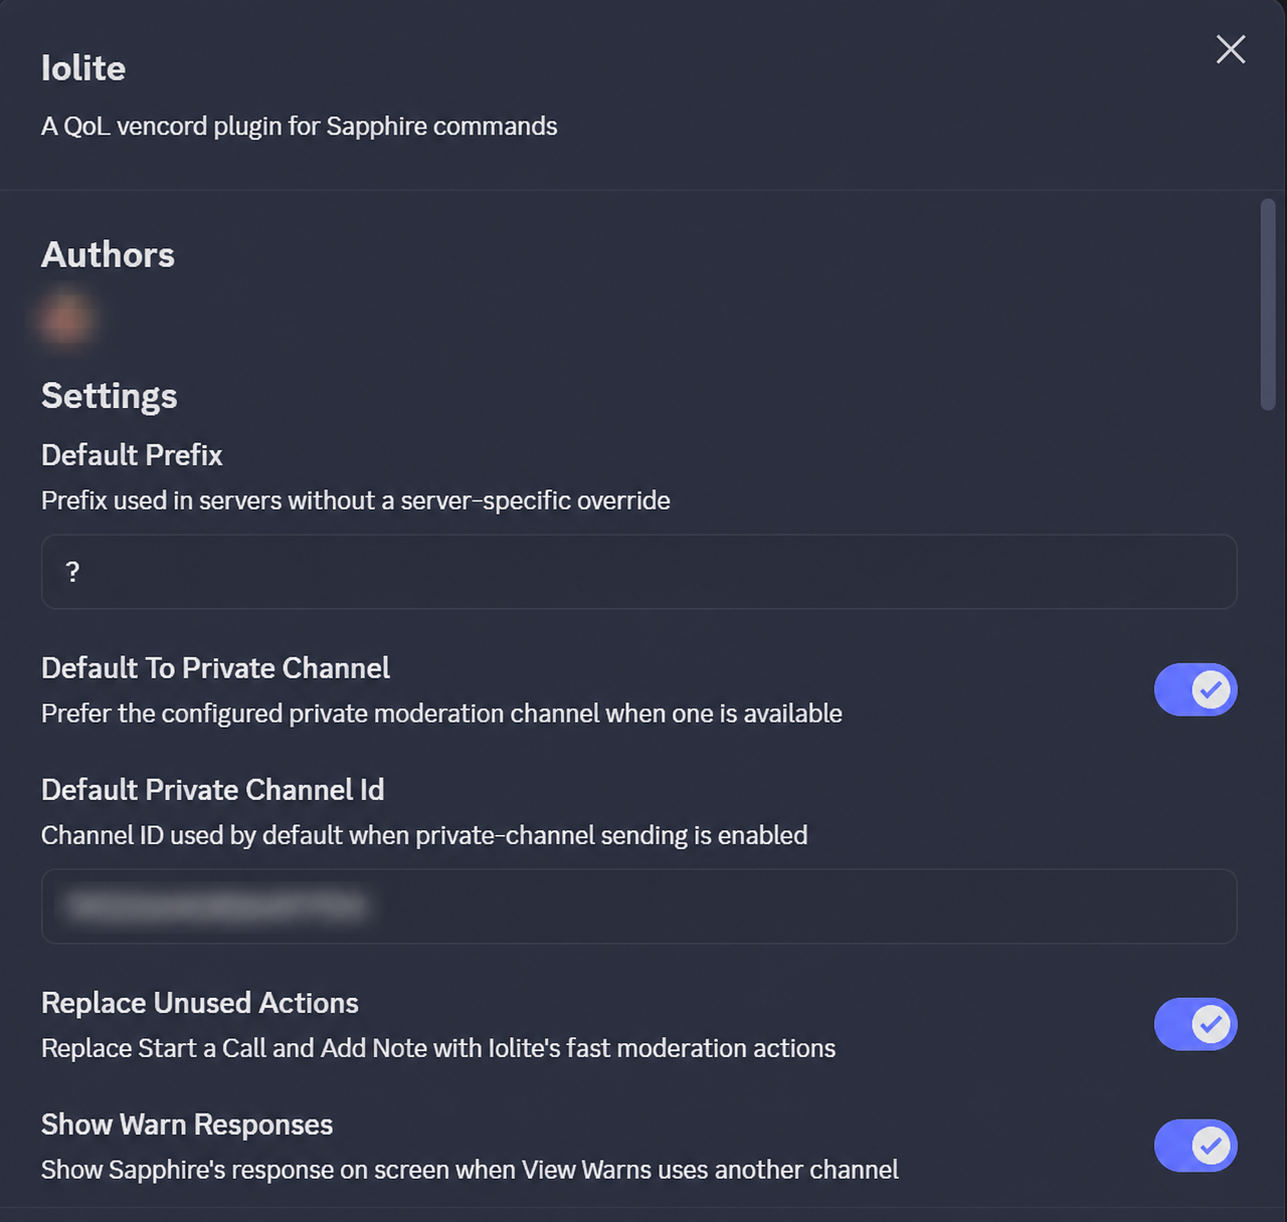
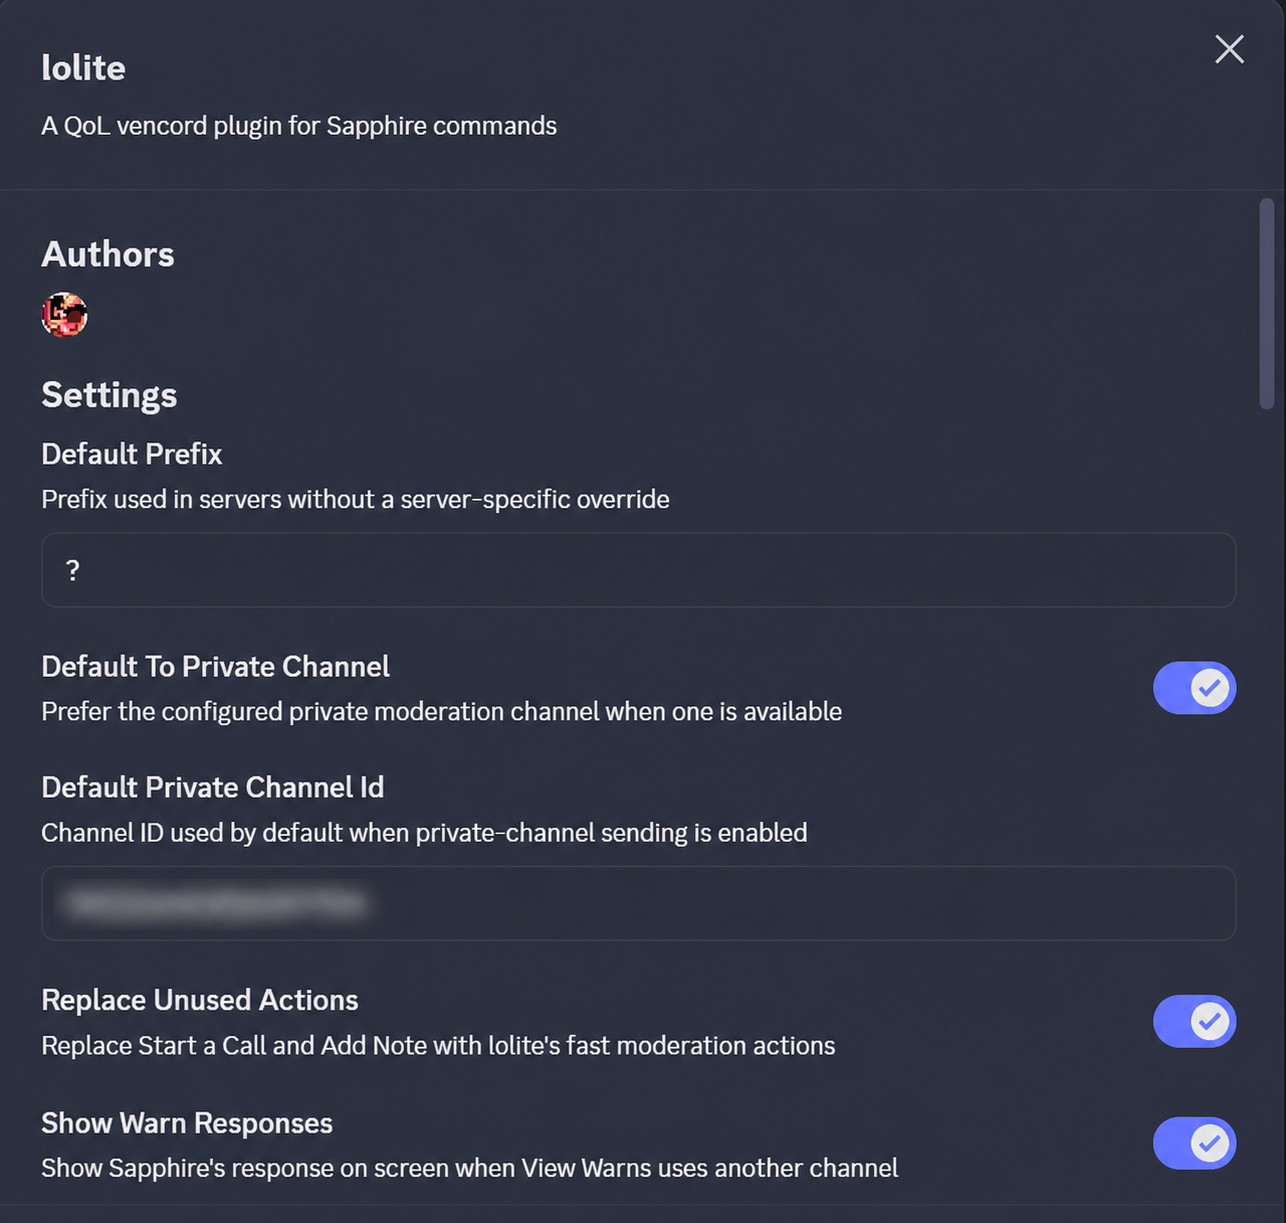
docs: improve installation visibility and screenshot privacy

diff --git a/README.md b/README.md
@@ -7,6 +7,14 @@ Iolite is a QoL [Vencord](https://vencord.dev) plugin for [Sapphire](https://sap
 > [!IMPORTANT]
 > Iolite is a custom user plugin. It is not part of Vencord's approved built-in plugin collection. Manual installations require building Vencord from source, while the Windows release includes a pinned prebuilt Vencord runtime. Client modifications are against Discord's Terms of Service; use them at your own discretion.
 
+## Download & Installation
+
+### **[Download the latest Windows installer](https://github.com/Epiano7/iolite-vencord/releases/latest)**
+
+### **[Read the full installation guide](INSTALL.md)**
+
+The installer supports standard Vencord and existing source-built installations. If Vencord is not installed yet, or you use Vesktop or another custom setup, follow the full guide.
+
 ## Features
 
 - Use clearly labeled moderation and lookup actions directly from a user's or message's context menu—no Iolite dropdown.
@@ -28,11 +36,11 @@ Iolite is a QoL [Vencord](https://vencord.dev) plugin for [Sapphire](https://sap
 
 | Fast actions | Background warning lookup |
 | --- | --- |
-| <img src="docs/images/action-menu.png" alt="Iolite actions in Discord's user context menu" width="242"> | <img src="docs/images/warning-card-susbusamogus.png" alt="Iolite displaying Sapphire's warning response on screen" width="416"> |
+| <img src="docs/images/action-menu.png" alt="Iolite actions in Discord's user context menu" width="242"> | <img src="docs/images/warning-card-redacted.png" alt="Iolite displaying a redacted Sapphire warning response on screen" width="416"> |
 | Plugin settings | Keyboard preset settings |
 | <img src="docs/images/plugin-settings-redacted.png" alt="Iolite's Vencord plugin settings" width="620"> | <img src="docs/images/shortcut-settings.png" alt="Iolite's configurable profile shortcut settings" width="620"> |
 
-The screenshots redact private identifiers and avatars. `susbusamogus` is a consented demo account.
+The screenshots redact private identifiers and non-author avatars.
 
 ## Supported Sapphire commands
 
